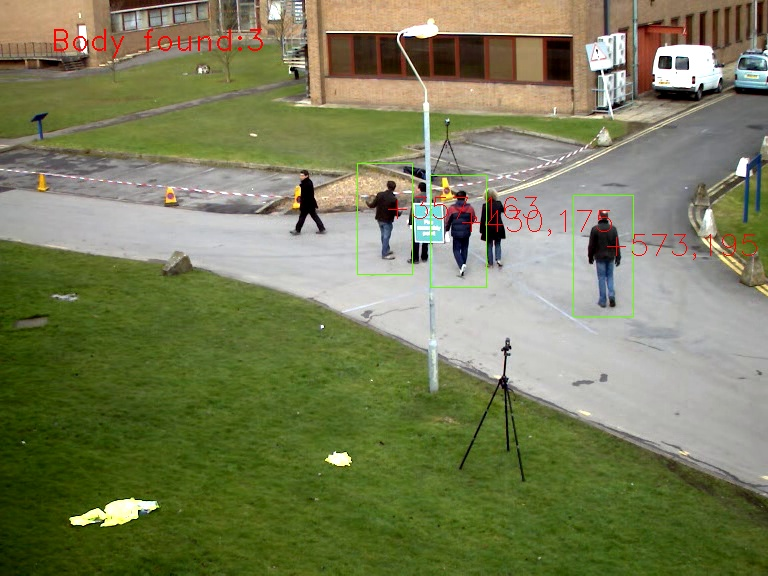
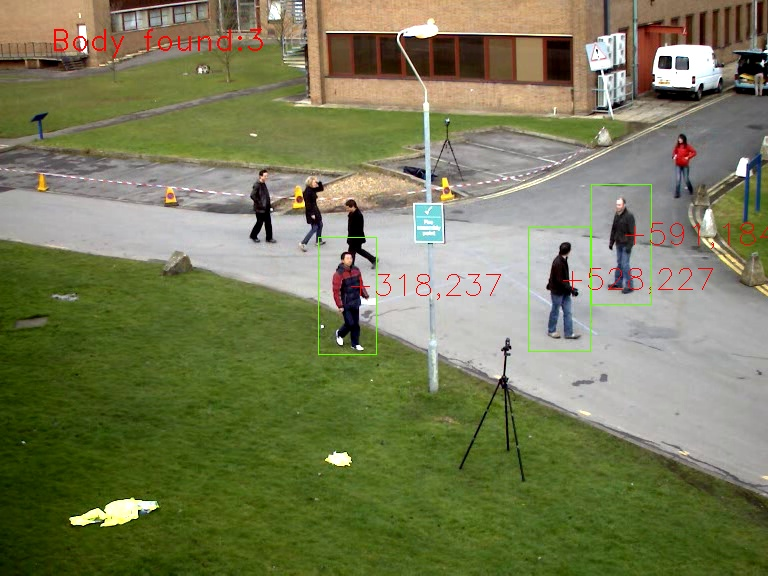
Update

diff --git a/webapp/humandetect.py b/webapp/humandetect.py
@@ -1,0 +1,61 @@
+# -*- coding: utf-8 -*-
+import cv2
+import sys
+
+#import paho.mqtt.client as mqtt
+
+#client = mqtt.Client()
+#client.connect("192.168.100.3", 1883)
+
+
+x=0
+y=0
+
+cascPath = "haarcascade_fullbody.xml"
+faceCascade = cv2.CascadeClassifier(cascPath)
+font=cv2.FONT_HERSHEY_SIMPLEX
+#video_capture = cv2.VideoCapture(1)
+video_capture = cv2.VideoCapture("movie.avi")
+
+while True:
+    # CAPTURE FRAME-BY-FRAME
+    ret, frame = video_capture.read()
+
+    gray = cv2.cvtColor(frame, cv2.COLOR_BGR2GRAY)
+
+    faces = faceCascade.detectMultiScale(
+        gray,
+        scaleFactor=1.1,
+        minNeighbors=5,
+        minSize=(50, 50),)
+    # DRAW A RECTANGLE AROUND THE FACES FOUND
+    if len(faces) >= 1:
+     print "Face detect"
+     cv2.putText(img = frame, text = 'Body found:' + str(len(faces)), org=(50,50), fontFace=cv2.FONT_HERSHEY_DUPLEX, fontScale=1, color=(0, 0, 255))
+     #system("echo  '%s %s' > data.txt" % (len(faces_rects), 1 ))
+ #    client.publish("home/sala/porta/01/status/"," 1 ")
+     for (x, y, w, h) in faces:
+        cv2.rectangle(frame, (x, y), (x+w, y+h), (0, 255, 100), 1)
+
+        #---To write the x,y on the middle of the rectangle.
+        stringxy="+%s,%s"%(x,y) # To prepare the string with the xy values to be used with the cv2.putText function
+        #In the case we want to put Xxvalue,Yyvalue we can use the following line removing #.
+        cv2.putText(frame,stringxy,(x+w/2,y+h/2),font, 1,(0,0,255),1)
+        cv2.imwrite('people.jpg', frame)
+
+    else:
+        print "Not body "
+  #      client.publish("home/sala/porta/01/status/"," 0 ")
+        cv2.imwrite('body.jpg', frame)
+    # DISPLAY THE RESULTING FRAME
+    cv2.imshow('Video', frame)
+    print x,y,
+    print"\n"
+    font=cv2.FONT_HERSHEY_SIMPLEX
+    cv2.putText(faces,'x,y',(x,y),font, 2,(255,255,255),1)
+    if cv2.waitKey(1) & 0xFF == ord('q'):
+        break
+
+# When everything is done, release the capture
+video_capture.release()
+cv2.destroyAllWindows()
